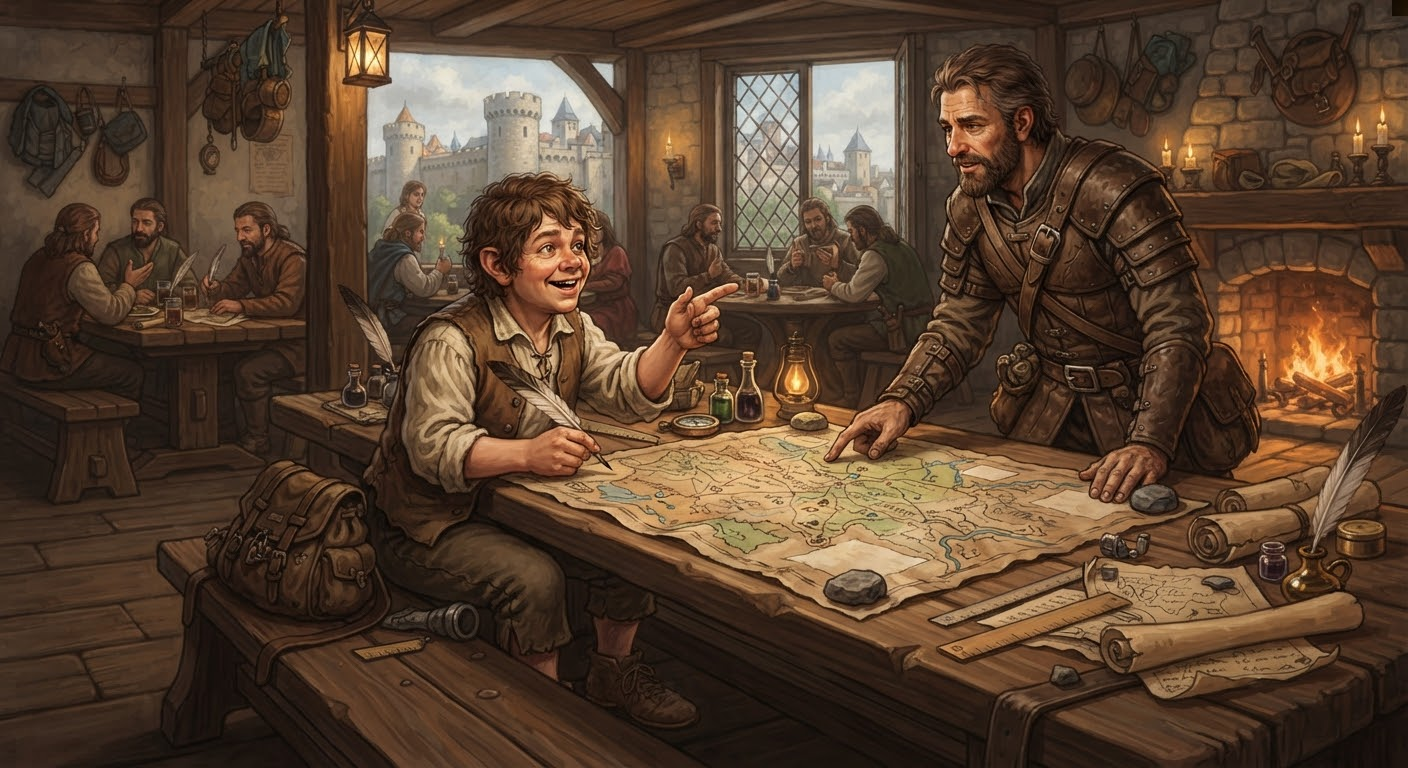
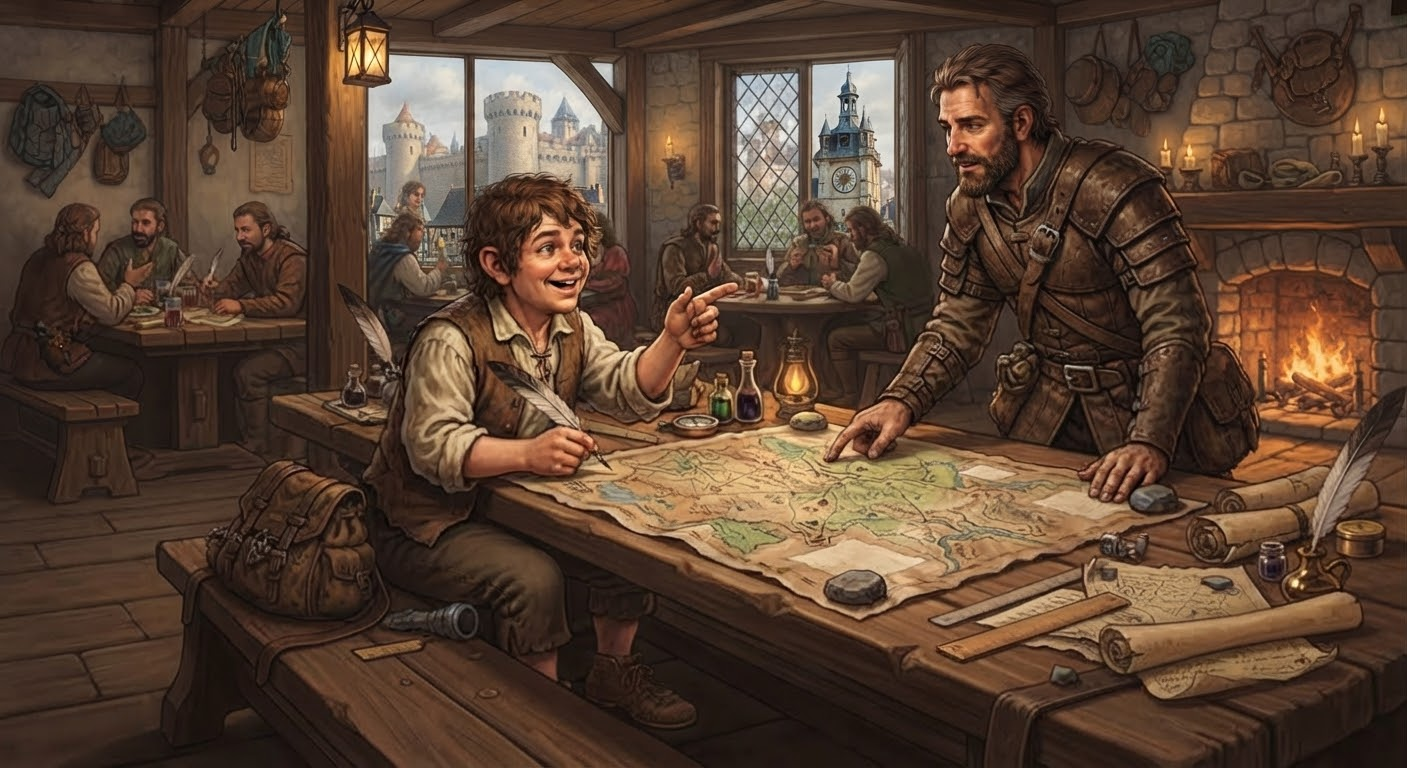
Milo : scène par passage à l'auberge, plus de « relais », nouvelle image
- « Passer près de sa table » au 1er passage seulement (passages max 1) ;
  « la forêt » à partir du 2e, la quête de Borin toujours requise.
- Libellés d'accueil sans titre entre guillemets.
- « relais » remplacé (porte nord, borne de pierre, villages, gués) :
  le jeu n'a pas encore de relais.
- Nouvelle image de Milo dans l'auberge de la Tour de l'Horloge.
- tests/test_pnj_milo.py verrouille l'enchaînement, les libellés et le linter.

Claude-Session: https://claude.ai/code/session_01LUN4NyMWLWpfSaDgFN2xnd

diff --git a/tests/test_pnj_milo.py b/tests/test_pnj_milo.py
@@ -1,0 +1,59 @@
+# tests/test_pnj_milo.py
+# Contenu : Milo à l'auberge de la Tour de l'Horloge. « Passer près de sa table » au PREMIER
+# passage seulement ; « la forêt » à partir du DEUXIÈME, et seulement une fois la première
+# mission de Borin réussie (condition `passages` en conjonction avec `quete_reussie`).
+
+import json
+import os
+
+import pytest
+
+from utils import lint_dialogues, pnj
+
+AUBERGE = "lieu:auberge_de_la_tour_de_l_horloge"
+MILO = "pnj:milo_cartographe"
+BORIN = "quete:transport_borin_premiere_mission"
+CONTENU = os.path.join(os.path.dirname(__file__), "..", "jsons", "pnj_milo_cartographe_a_importer.json")
+
+
+def _contenu():
+	with open(CONTENU, encoding="utf-8") as f:
+		return {d["_id"]: d for d in json.load(f)}
+
+
+def _scenes(passages, quetes_reussies=()):
+	"""Les scènes de rencontre (s1, s2) proposées à l'accueil."""
+	doc = _contenu()[MILO]
+	c = {"passages": {AUBERGE: passages}}
+	ctx = pnj.contexte_dialogue(c, doc, lambda _l: 0, quetes_reussies=set(quetes_reussies))
+	vue = pnj.noeud_client(doc, "accueil", ctx)
+	return [ch["id"] for ch in vue["choix"] if ch["id"] in ("s1", "s2")]
+
+
+@pytest.mark.parametrize("passages, quetes, attendu", [
+	(1, (), ["s1"]),
+	(1, (BORIN,), ["s1"]),          # la quête seule n'ouvre pas la forêt dès la 1re visite
+	(2, (), []),                    # 2e visite sans la quête : rien
+	(2, (BORIN,), ["s2"]),
+	(5, (BORIN,), ["s2"]),
+])
+def test_scene_selon_le_passage(passages, quetes, attendu):
+	assert _scenes(passages, quetes) == attendu
+
+
+def test_libelles_sans_titre():
+	choix = {c["id"]: c["label"] for c in _contenu()[MILO]["dialogue"]["noeuds"]["accueil"]["choix"]}
+	assert choix["s1"] == "— Passer près de sa table."
+	assert choix["s2"] == "— Lui parler de la forêt au-delà de la porte nord."
+
+
+def test_aucun_relais_dans_le_contenu():
+	"""Le jeu n'a pas (encore) de relais : Milo n'en parle pas."""
+	with open(CONTENU, encoding="utf-8") as f:
+		assert "relais" not in f.read().lower()
+
+
+def test_le_contenu_passe_le_linter():
+	with open(CONTENU, encoding="utf-8") as f:
+		rapport = lint_dialogues.analyser(json.load(f))
+	assert rapport["erreurs"] == 0, rapport["trouvailles"]
